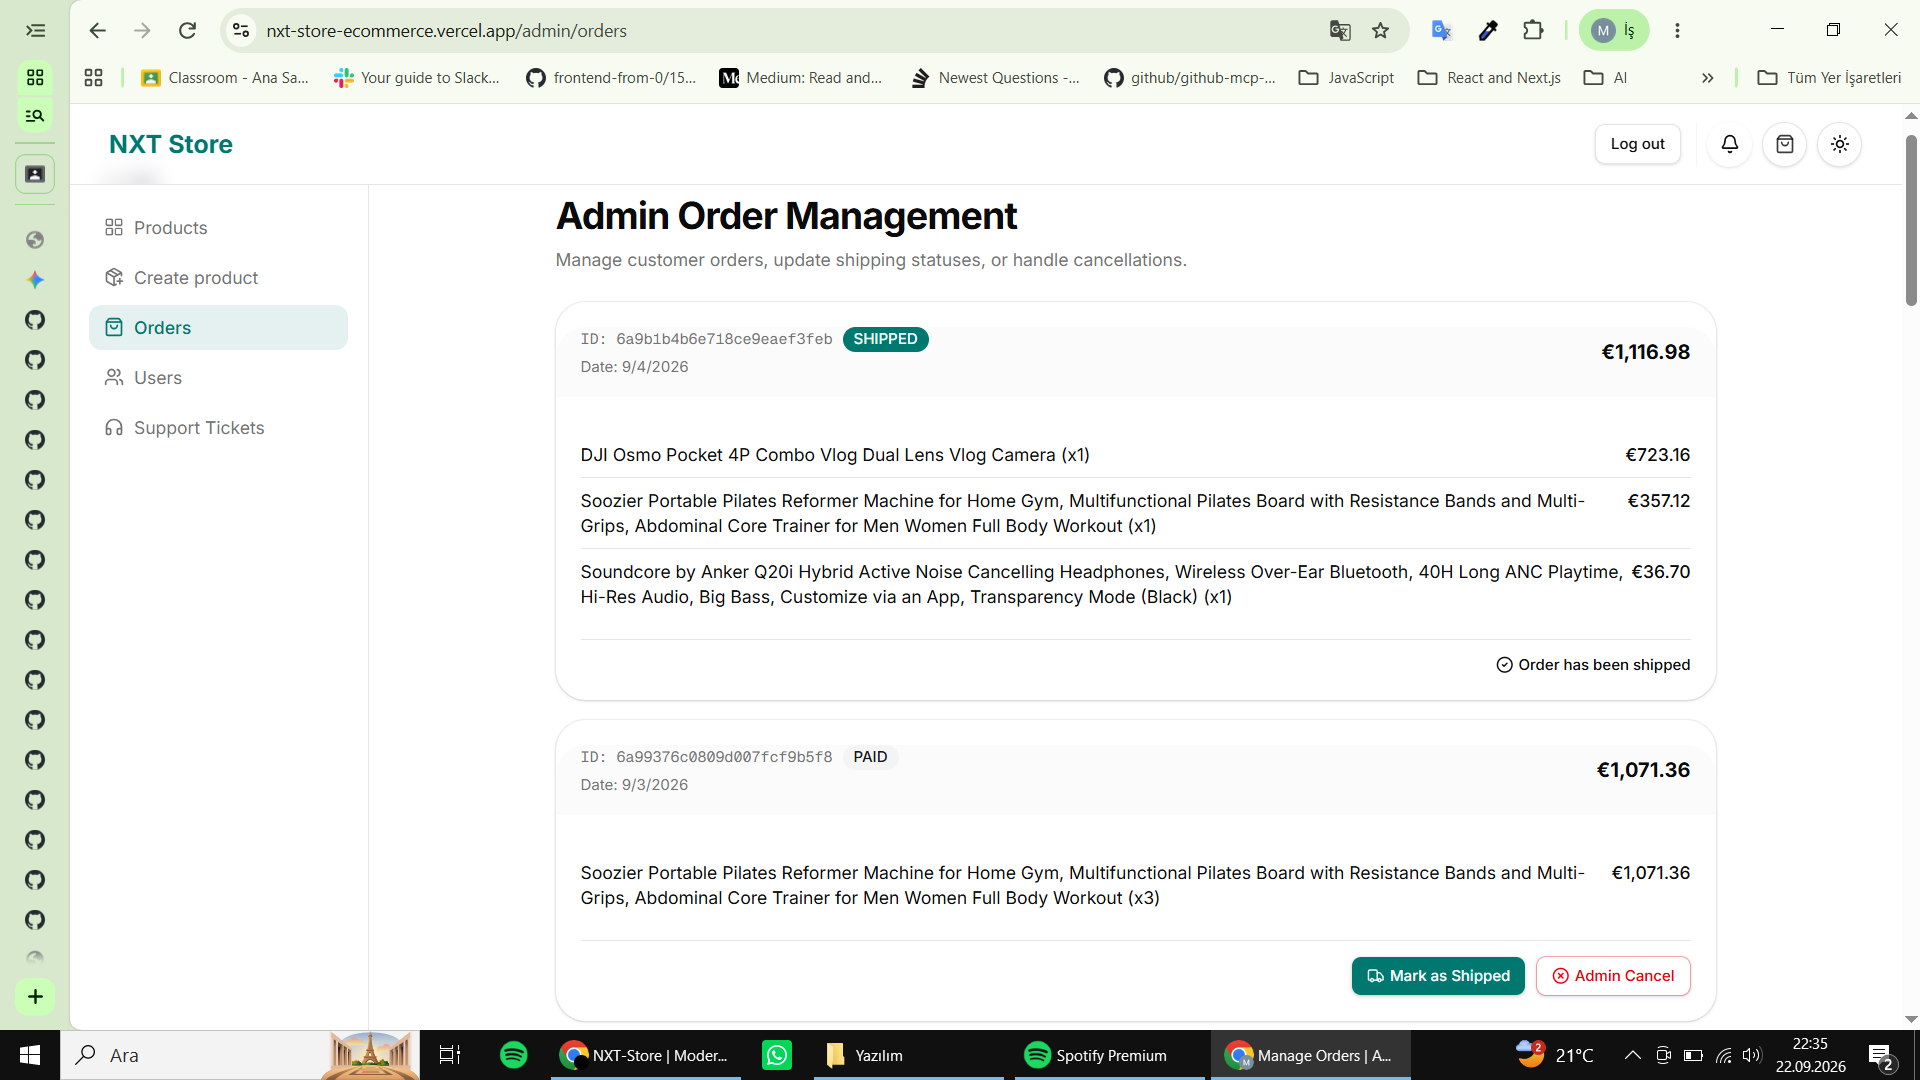
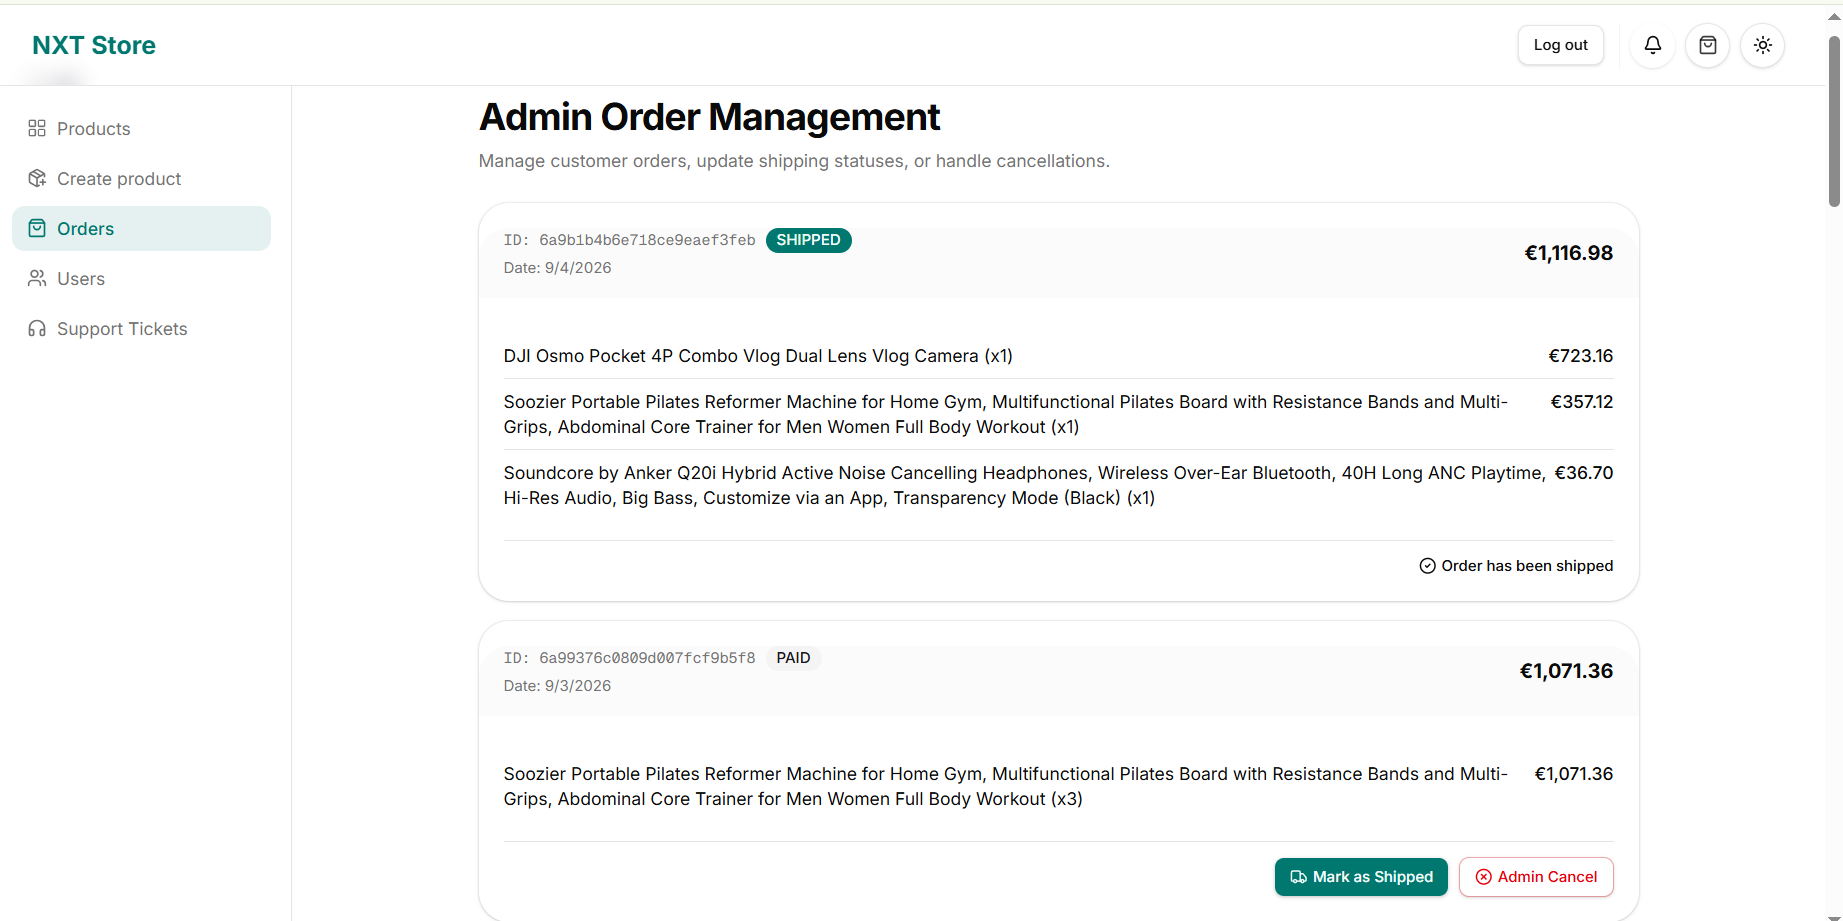
feat: enhance README visuals and update image layout for better presentation

diff --git a/README.md b/README.md
@@ -22,17 +22,18 @@ The project is live and deployed on Vercel:
 ## 📸 Screenshots & Visual Preview
 
 <div align="center">
-  <h3>Storefront & Product Catalog</h3>
-  <img src="https://raw.githubusercontent.com/muge-yilmaz/NXT-Store-Ecommerce/main/assets/homepage.png" alt="NXT Store Homepage" width="100%" />
-
-  <br/><br/>
-
   <table>
     <tr>
+      <td width="50%">
+        <h4 align="center">🛍 Storefront & Catalog</h4>
+        <img src="https://raw.githubusercontent.com/muge-yilmaz/NXT-Store-Ecommerce/main/assets/homepage.png" alt="NXT Store Homepage" width="100%" />
+       </td>
       <td width="50%">
         <h4 align="center">👤 User Orders Management</h4>
         <img src="https://raw.githubusercontent.com/muge-yilmaz/NXT-Store-Ecommerce/main/assets/user-orders-page.png" alt="User Orders Page" />
       </td>
+     </tr>
+     <tr>
       <td width="50%">
         <h4 align="center">🛡 Admin Dashboard Lifecycle</h4>
         <img src="https://raw.githubusercontent.com/muge-yilmaz/NXT-Store-Ecommerce/main/assets/admin-dashboard.png" alt="Admin Dashboard" />
@@ -210,8 +211,4 @@ Distributed for educational and portfolio demonstration purposes.
 
 * **Email:** [mugeyilmaz.web@gmail.com](https://www.google.com/search?q=mailto%3Amugeyilmaz.web%40gmail.com)
 * **LinkedIn:** [linkedin.com/in/muge-yilmaz](https://linkedin.com/in/muge-yilmaz)
-<<<<<<< HEAD
 * **GitHub:** [github.com/muge-yilmaz](https://github.com/muge-yilmaz)
-=======
-* **GitHub:** [github.com/muge-yilmaz](https://github.com/muge-yilmaz)
->>>>>>> 623fd0a3e4c97e3c67c0ac7a46dd5ddb9db2bec6
